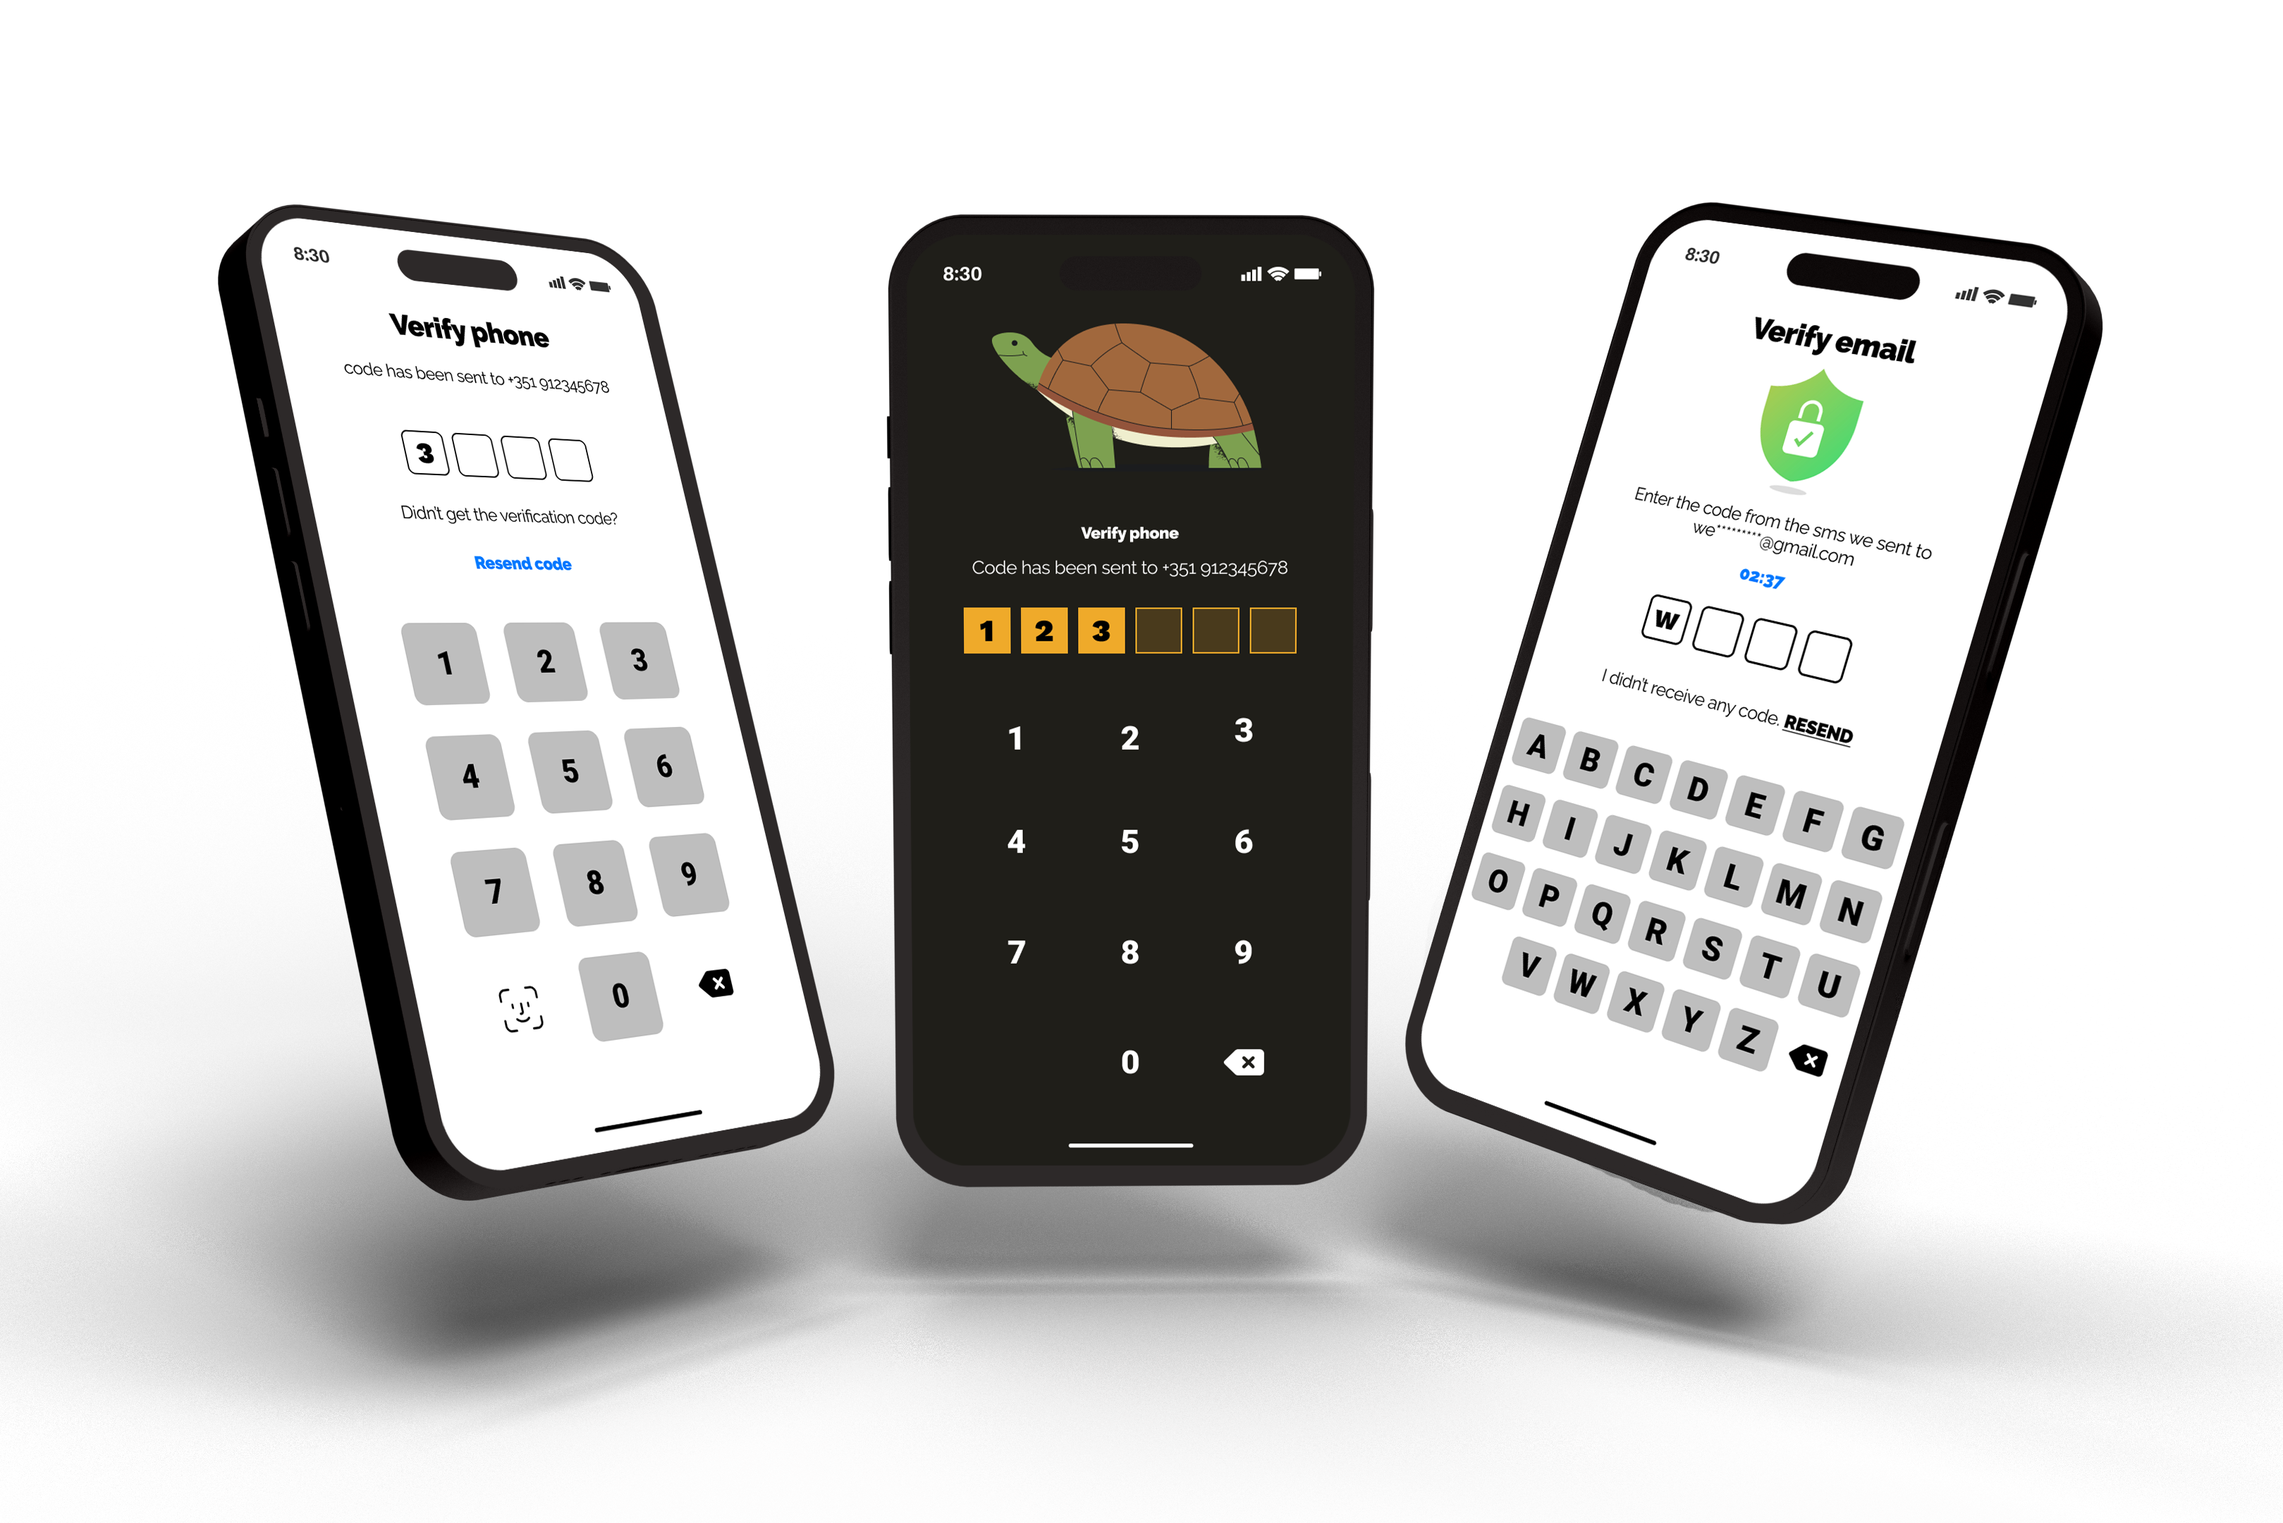
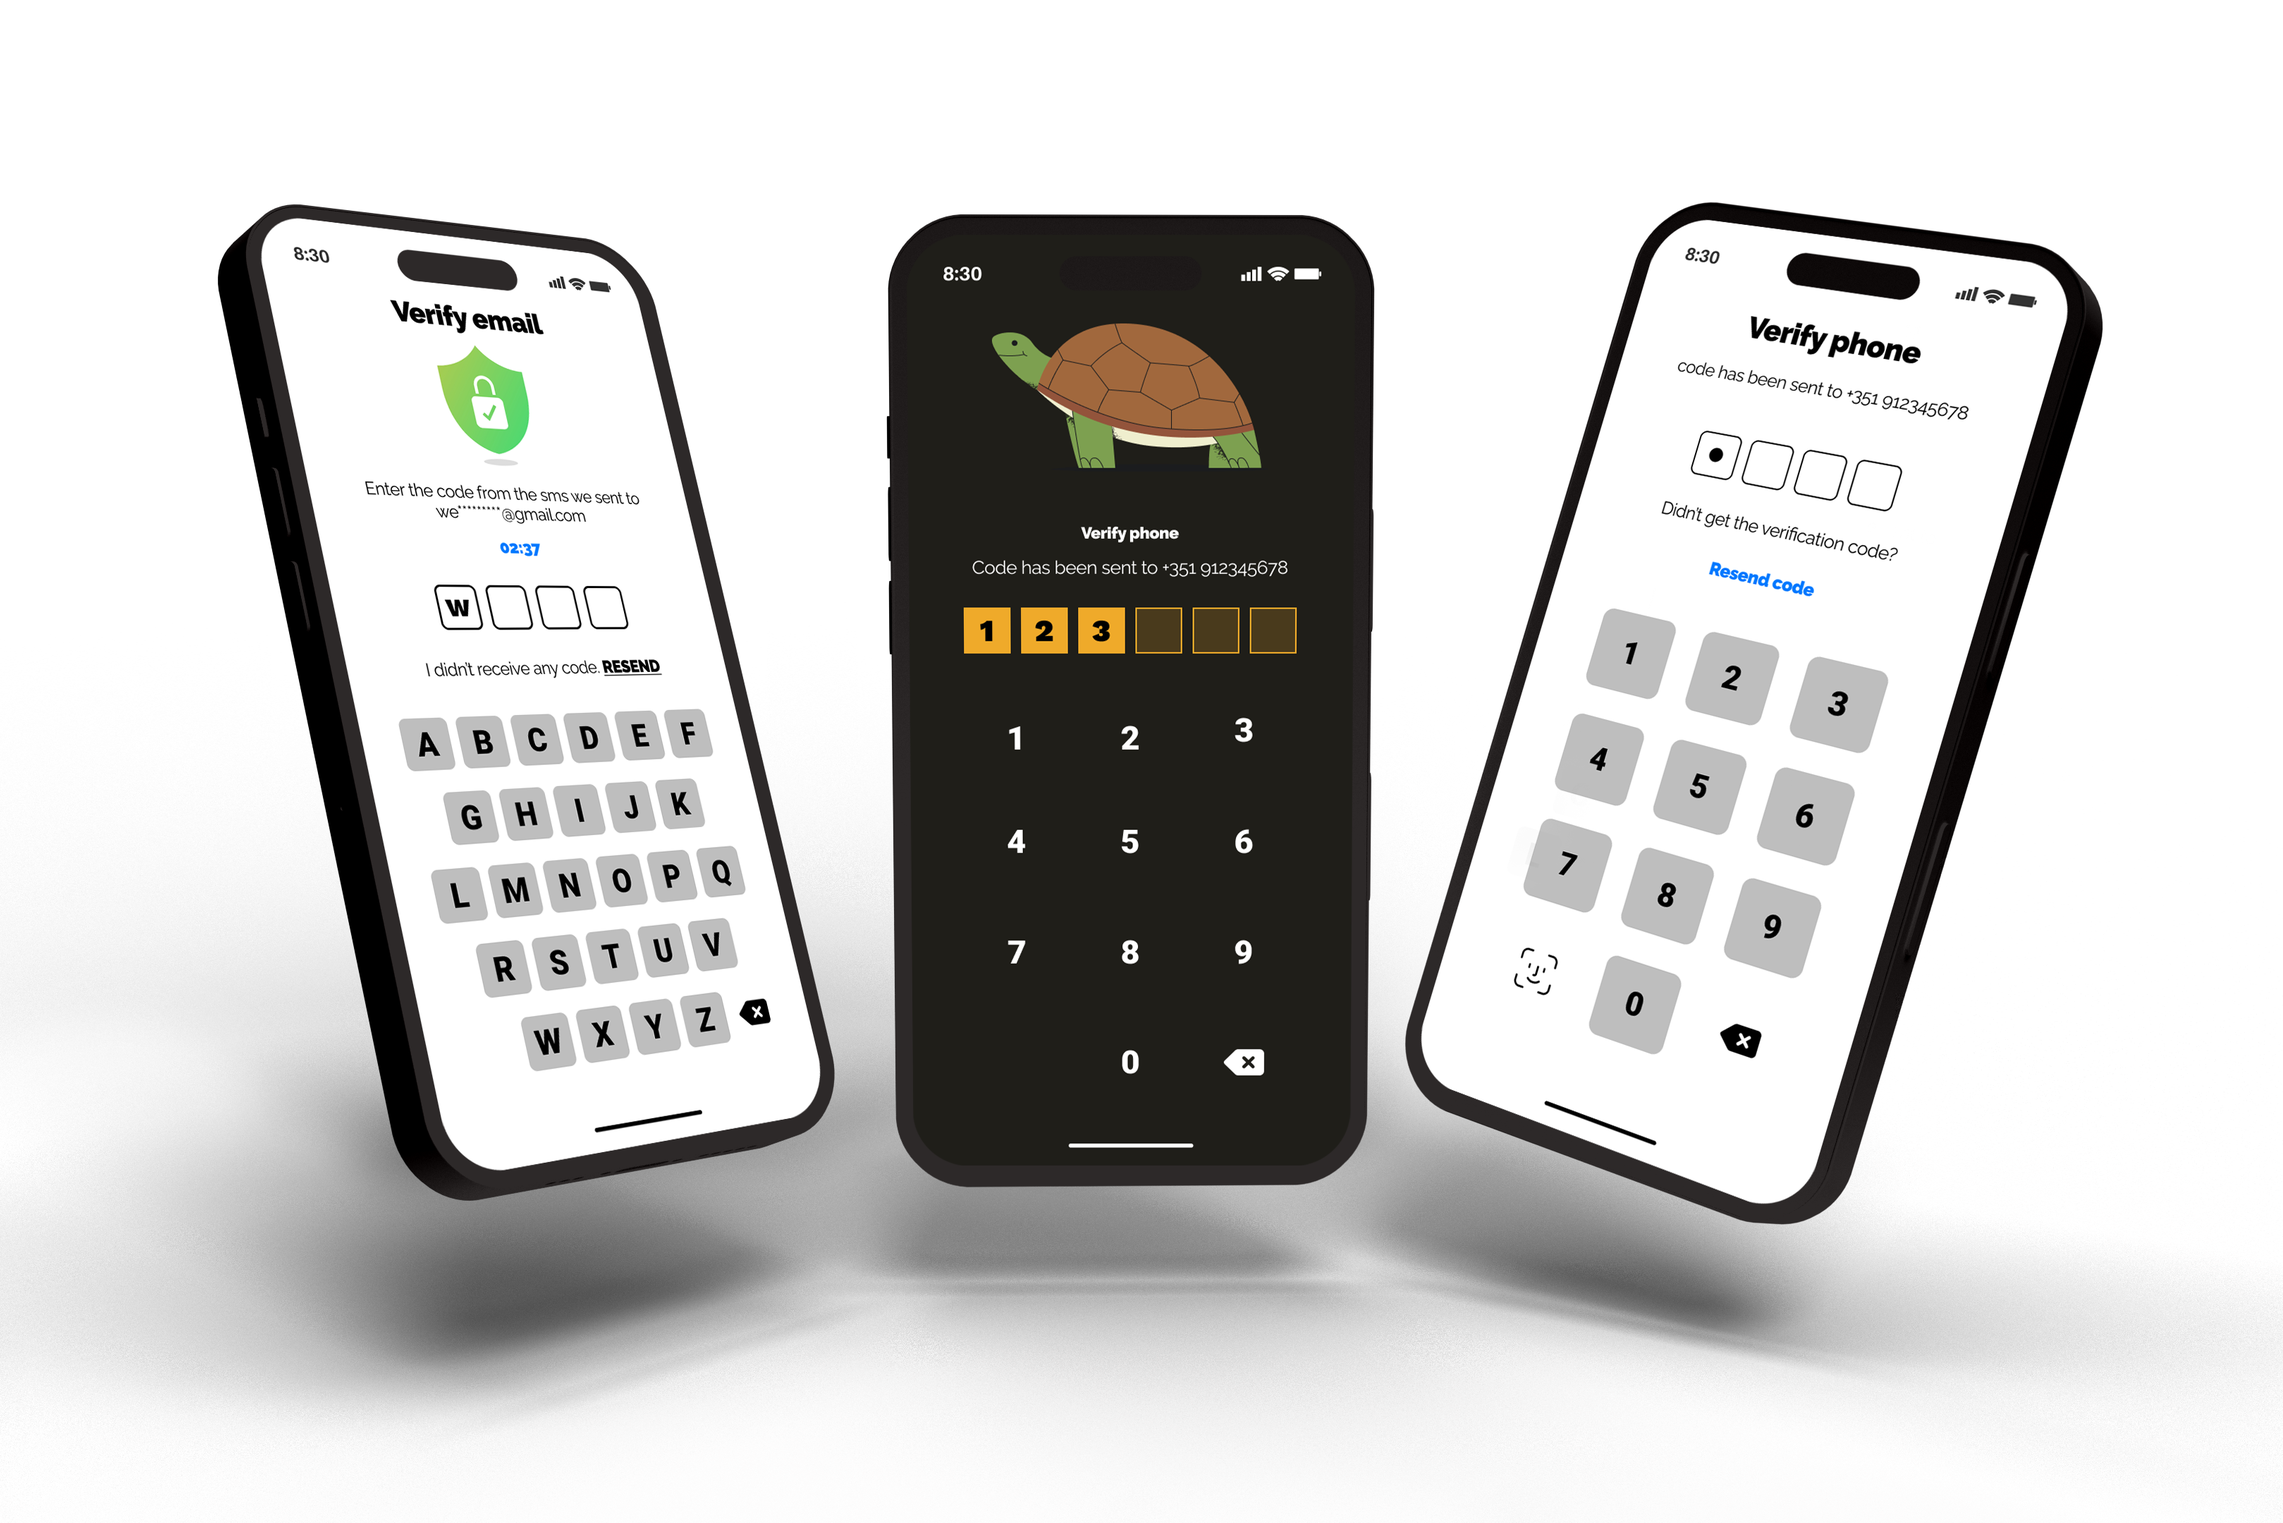
feat: adding accebility

diff --git a/src/PinCodes.Authorization/Views/Pages/CodePage.xaml.cs b/src/PinCodes.Authorization/Views/Pages/CodePage.xaml.cs
@@ -1,6 +1,7 @@
 using PinCodes.Authorization.Extensions;
 using PinCodes.Authorization.Helpers;
 using PinCodes.Authorization.Views.Components.CodeViewers;
+using Microsoft.Maui.Accessibility;
 using PinCodes.Authorization.Views.Components.Keyboards;
 using System.Windows.Input;
 
@@ -30,6 +31,18 @@ public partial class CodePage : ContentPage
 
     public KeyBoardViewerBase Keyboard { get => (KeyBoardViewerBase)GetValue(KeyboardProperty); set => SetValue(KeyboardProperty, value); }
     public static readonly BindableProperty KeyboardProperty = BindableProperty.Create(nameof(Keyboard), typeof(KeyBoardViewerBase), typeof(CodePage), propertyChanged: OnKeyboardPropertyChanged);
+
+    public string ProgressAnnouncement { get => (string)GetValue(ProgressAnnouncementProperty); set => SetValue(ProgressAnnouncementProperty, value); }
+    public static readonly BindableProperty ProgressAnnouncementProperty = BindableProperty.Create(nameof(ProgressAnnouncement), typeof(string), typeof(CodePage), defaultValue: "{0} of {1} entered");
+
+    public string CodeCompletedAnnouncement { get => (string)GetValue(CodeCompletedAnnouncementProperty); set => SetValue(CodeCompletedAnnouncementProperty, value); }
+    public static readonly BindableProperty CodeCompletedAnnouncementProperty = BindableProperty.Create(nameof(CodeCompletedAnnouncement), typeof(string), typeof(CodePage), defaultValue: "Code complete");
+
+    public string CodeClearedAnnouncement { get => (string)GetValue(CodeClearedAnnouncementProperty); set => SetValue(CodeClearedAnnouncementProperty, value); }
+    public static readonly BindableProperty CodeClearedAnnouncementProperty = BindableProperty.Create(nameof(CodeClearedAnnouncement), typeof(string), typeof(CodePage), defaultValue: "Code cleared");
+
+    public bool AnnounceCodeContent { get => (bool)GetValue(AnnounceCodeContentProperty); set => SetValue(AnnounceCodeContentProperty, value); }
+    public static readonly BindableProperty AnnounceCodeContentProperty = BindableProperty.Create(nameof(AnnounceCodeContent), typeof(bool), typeof(CodePage), defaultValue: false);
 
     private static void OnHeaderPropertyChanged(BindableObject bindable, object oldValue, object newValue) => ((CodePage)bindable).SetPageHeader();
     private static void OnSubHeaderPropertyChanged(BindableObject bindable, object oldValue, object newValue) => ((CodePage)bindable).SetPageSubHeader();
@@ -98,16 +111,23 @@ public partial class CodePage : ContentPage
         return new Command((value) =>
         {
             var option = (string)value;
+            var isBackspace = option == "-1";
+            var previousLength = _code.Length;
 
-            if (option == "-1" && _code.NotEmpty())
+            if (isBackspace && _code.NotEmpty())
                 _code = _code[..^1];
-            else if (option != "-1" && _code.Length < CodeViewer.CodeLength)
+            else if (!isBackspace && _code.Length < CodeViewer.CodeLength)
                 _code += option;
 
             CodeViewer.SetCode(_code);
 
             if (_code.Length == CodeViewer.CodeLength)
+            {
+                Announce(string.Format(CodeCompletedAnnouncement, _code));
                 CallbackCodeFinished?.Execute(_code);
+            }
+            else if (_code.Length != previousLength)
+                AnnounceProgress(isBackspace ? null : option);
         });
     }
 
@@ -115,5 +135,33 @@ public partial class CodePage : ContentPage
     {
         CodeViewer.SetCode(string.Empty);
         _code = string.Empty;
+
+        Announce(CodeClearedAnnouncement);
+    }
+
+    private void AnnounceProgress(string? enteredCharacter)
+    {
+        if (AnnounceCodeContent && enteredCharacter.NotEmpty())
+            Announce(enteredCharacter);
+        else
+            Announce(FormatProgress());
+    }
+
+    private string FormatProgress()
+    {
+        try
+        {
+            return string.Format(ProgressAnnouncement, _code.Length, CodeViewer.CodeLength);
+        }
+        catch (FormatException)
+        {
+            return ProgressAnnouncement;
+        }
+    }
+
+    private static void Announce(string text)
+    {
+        if (text.NotEmpty())
+            SemanticScreenReader.Default.Announce(text);
     }
 }

diff --git a/src/PinCodes.Authorization/Views/Components/Keyboards/KeyBoardViewerBase.cs b/src/PinCodes.Authorization/Views/Components/Keyboards/KeyBoardViewerBase.cs
@@ -30,11 +30,22 @@ public abstract class KeyBoardViewerBase : ContentView
     public ushort ColumnSpacing { get => (ushort)GetValue(ColumnSpacingProperty); set => SetValue(ColumnSpacingProperty, value); }
     public static readonly BindableProperty ColumnSpacingProperty = BindableProperty.Create(nameof(ColumnSpacing), typeof(ushort), typeof(KeyBoardViewerBase), SPACING, propertyChanged: OnColumnSpacingPropertyChanged);
 
+    public KeyDescriptionCollection KeyDescriptions { get => (KeyDescriptionCollection)GetValue(KeyDescriptionsProperty); set => SetValue(KeyDescriptionsProperty, value); }
+    public static readonly BindableProperty KeyDescriptionsProperty = BindableProperty.Create(nameof(KeyDescriptions), typeof(KeyDescriptionCollection), typeof(KeyBoardViewerBase), propertyChanged: OnKeyDescriptionsPropertyChanged);
+
     private static void OnShapePropertyChanged(BindableObject bindable, object oldValue, object newValue) => ((KeyBoardViewerBase)bindable).CreateLayout();
     private static void OnLeftSideButtonShapeViewerPropertyChanged(BindableObject bindable, object oldValue, object newValue) => ((KeyBoardViewerBase)bindable).AddLeftSideButton();
     private static void OnBackspaceViewerPropertyChanged(BindableObject bindable, object oldValue, object newValue) => ((KeyBoardViewerBase)bindable).AddBackspaceButton();
     private static void OnRowSpacingPropertyChanged(BindableObject bindable, object oldValue, object newValue) => ((KeyBoardViewerBase)bindable).SetRowColumnSpacing();
     private static void OnColumnSpacingPropertyChanged(BindableObject bindable, object oldValue, object newValue) => ((KeyBoardViewerBase)bindable).SetColumnSpacing();
+
+    private static void OnKeyDescriptionsPropertyChanged(BindableObject bindable, object oldValue, object newValue)
+    {
+        var keyboard = (KeyBoardViewerBase)bindable;
+
+        if (keyboard.ShapeViewer is not null)
+            keyboard.CreateLayout();
+    }
 
     public void SetCommandWhenUserPressButtonOnKeyboard(ICommand callbackCommand) => _callbackKeyboardCommand = callbackCommand;
 
@@ -61,6 +72,10 @@ public abstract class KeyBoardViewerBase : ContentView
         var button = ShapeViewer.Clone();
         button.Text = value;
         button.Command = new Command(() => { _callbackKeyboardCommand?.Execute(value); });
+
+        var description = KeyDescriptions?.FirstOrDefault(item => item.Key == value)?.Description;
+        if (description.NotEmpty())
+            SemanticProperties.SetDescription(button, description);
 
         return button;
     }

diff --git a/src/PinCodes.Authorization/Views/Components/Keyboards/KeyDescription.cs b/src/PinCodes.Authorization/Views/Components/Keyboards/KeyDescription.cs
@@ -1,0 +1,12 @@
+namespace PinCodes.Authorization.Views.Components.Keyboards;
+
+public sealed class KeyDescription
+{
+    public string Key { get; set; } = string.Empty;
+
+    public string Description { get; set; } = string.Empty;
+}
+
+public sealed class KeyDescriptionCollection : List<KeyDescription>
+{
+}

diff --git a/src/PinCodes.Authorization/readme.md b/src/PinCodes.Authorization/readme.md
@@ -18,6 +18,7 @@
         <li><a href="#full-xaml-code">Full code</a></li>
       </ul>
     </li>
+    <li><a href="#accessibility">Accessibility</a></li>
   </ol>
 </details>
 
@@ -42,6 +43,7 @@ This library provides developers with an easy way to add a customizable PIN Code
 - **Code viewer:** fully customizable, allowing developers to define a [Shape](https://learn.microsoft.com/en-us/dotnet/maui/user-interface/controls/shapes/?view=net-maui-8.0) (e.g., ellipse, rectangle) and other properties for a tailored viewing experience.
 - **Headers:** complete flexibility, allowing developers incorporate images, labels, and various other elements to suit their needs.
 - **Customize the length of your code:** adjust the amount of digits (default is 4).
+- **Accessibility:** built-in screen reader announcements and per-key labels, with fully customizable phrases.
 - and others.
 
 ## Getting Started
@@ -311,6 +313,8 @@ You must explicitly choose which keyboard layout to use:
 
 - AlphabeticKeyboard – displays letters in alphabetical order (A–Z)
 
+- AlphanumericKeyboard – displays letters (A–Z) and numbers (0–9)
+
 Before using any keyboard, add the required XAML namespace:
 
 ```xaml
@@ -319,7 +323,7 @@ xmlns:keyboardViewer="clr-namespace:PinCodes.Authorization.Views.Components.Keyb
 
 #### Selecting a Keyboard Type
 
-The keyboard type is defined by assigning either a NumericKeyboard or an AlphabeticKeyboard to the CodePage.Keyboard property.
+The keyboard type is defined by assigning a NumericKeyboard, an AlphabeticKeyboard or an AlphanumericKeyboard to the CodePage.Keyboard property.
 
 ```xaml
 <pinCodeAuthorization:CodePage.Keyboard>
@@ -333,7 +337,15 @@ The keyboard type is defined by assigning either a NumericKeyboard or an Alphabe
 </pinCodeAuthorization:CodePage.Keyboard>
 ```
 
-Both NumericKeyboard and AlphabeticKeyboard share the same customization properties.
+```xaml
+<pinCodeAuthorization:CodePage.Keyboard>
+    <keyboardViewer:AlphanumericKeyboard />
+</pinCodeAuthorization:CodePage.Keyboard>
+```
+
+The **AlphanumericKeyboard** combines both layouts: the letters (A–Z) are shown first and the numbers (0–9) are anchored at the bottom, so the user can type a code that mixes letters and digits.
+
+NumericKeyboard, AlphabeticKeyboard and AlphanumericKeyboard share the same customization properties.
 
 | Option | Type | Purpose |
 | --- | --- | --- |
@@ -385,6 +397,68 @@ Below is an example for the NumericKeyboard demonstrating how easy it is to defi
 | SubHeader | ⛔ No, it's optional |
 | CodeViewer | ✅ Yes, it's mandatory |
 | Keyboard | ✅ Yes, it's mandatory |
+
+## Accessibility
+
+The PIN Code Page works with the platform screen readers (VoiceOver on iOS, TalkBack on Android and Narrator on Windows). There are two kinds of accessibility support, and every phrase is customizable so you can localize it or adjust the wording to match your app.
+
+### Screen Reader Announcements
+
+As the user types, CodePage announces what is happening through the screen reader. You customize each announcement directly on CodePage. Leaving a phrase empty disables that specific announcement.
+
+| Option | Type | Purpose |
+| --- | --- | --- |
+| ProgressAnnouncement | string | Announced after each character is entered or removed. Use {0} for the number of characters entered and {1} for the total length. Default is "{0} of {1} entered". |
+| CodeCompletedAnnouncement | string | Announced when the last character is entered. Default is "Code complete". |
+| CodeClearedAnnouncement | string | Announced when the code is cleared. Default is "Code cleared". |
+| AnnounceCodeContent | bool | When true, the entered character is spoken out loud instead of only the progress. Default is false. ⚠ Speaking the code can be overheard by people nearby, keep it false unless you understand the risk. |
+
+```xaml
+<pinCodeAuthorization:CodePage
+    xmlns="http://schemas.microsoft.com/dotnet/2021/maui"
+    xmlns:x="http://schemas.microsoft.com/winfx/2009/xaml"
+    x:Name="PagePinCode"
+    CallbackCodeFinished="{Binding BindingContext.UserCompletedCodeCommand, Source={x:Reference PagePinCode}}"
+    ProgressAnnouncement="You typed {0} of {1} characters"
+    CodeCompletedAnnouncement="The code was completed"
+    CodeClearedAnnouncement="The code was cleared">
+
+</pinCodeAuthorization:CodePage>
+```
+
+### Custom Label for Each Key
+
+By default the screen reader reads the text of each key (for example "A" or "1"). If you want a friendlier or localized description, define a description per key through the **KeyDescriptions** property of any keyboard. Keys without a custom description fall back to their text.
+
+| Option | Type | Purpose |
+| --- | --- | --- |
+| KeyDescriptions | KeyDescriptionCollection | A collection of KeyDescription items. Each item maps a Key (the character of the button) to the Description spoken by the screen reader. |
+
+```xaml
+<pinCodeAuthorization:CodePage.Keyboard>
+    <keyboardViewer:AlphanumericKeyboard>
+        <keyboardViewer:AlphanumericKeyboard.KeyDescriptions>
+            <keyboardViewer:KeyDescriptionCollection>
+                <keyboardViewer:KeyDescription Key="A" Description="letter A" />
+                <keyboardViewer:KeyDescription Key="B" Description="letter B" />
+                <keyboardViewer:KeyDescription Key="1" Description="number one" />
+                <keyboardViewer:KeyDescription Key="0" Description="number zero" />
+            </keyboardViewer:KeyDescriptionCollection>
+        </keyboardViewer:AlphanumericKeyboard.KeyDescriptions>
+    </keyboardViewer:AlphanumericKeyboard>
+</pinCodeAuthorization:CodePage.Keyboard>
+```
+
+The **BackspaceViewer** and **LeftSideButtonShapeViewer** are views you provide, so set their accessibility text directly with SemanticProperties.Description:
+
+```xaml
+<keyboardViewer:AlphanumericKeyboard.BackspaceViewer>
+    <ImageButton
+        BackgroundColor="Transparent"
+        SemanticProperties.Description="Clear the code"
+        Source="illustration_delete.png" />
+</keyboardViewer:AlphanumericKeyboard.BackspaceViewer>
+```
 
 ## License
 
